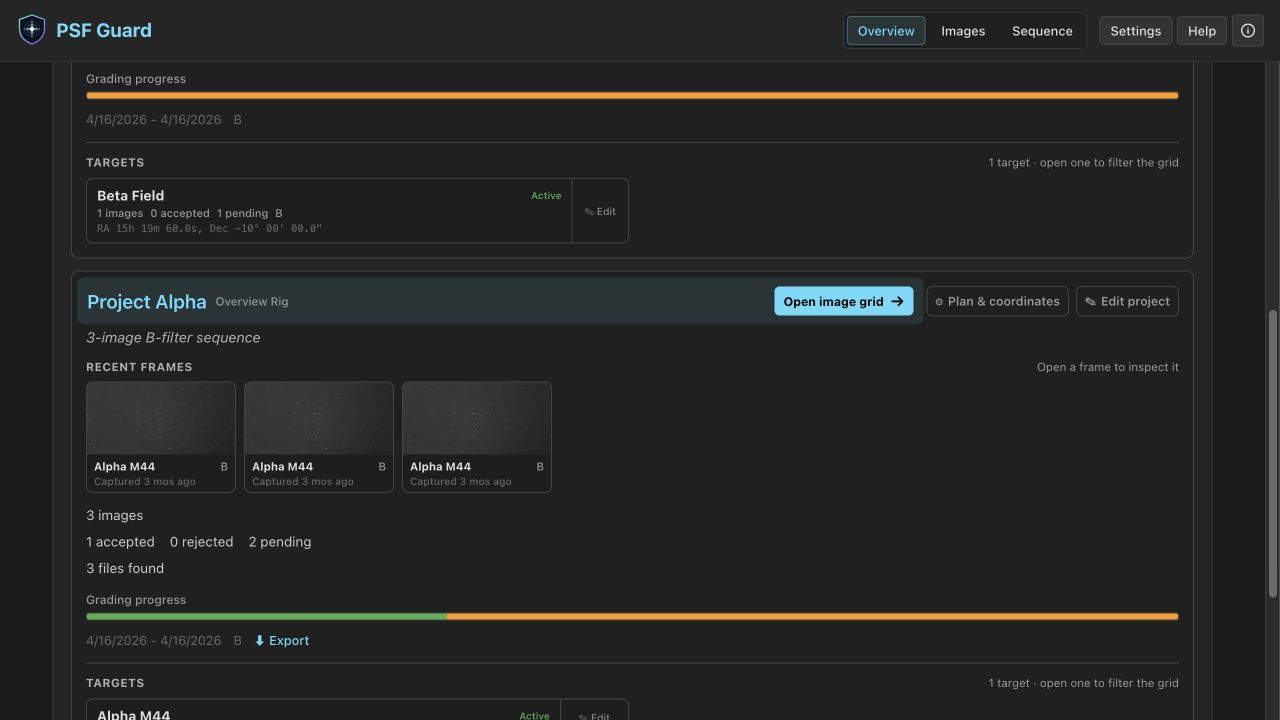
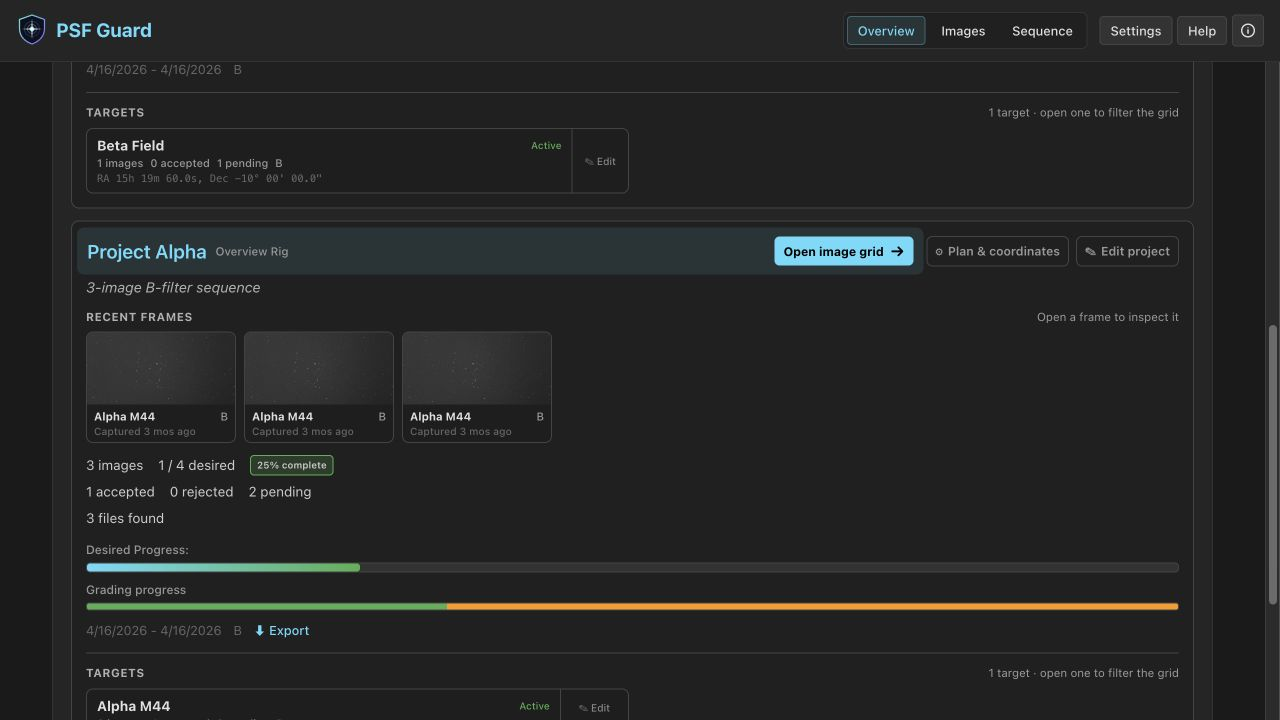
Show both project progress bars in Overview test

diff --git a/static/e2e/overview.spec.ts b/static/e2e/overview.spec.ts
@@ -22,6 +22,16 @@ test.beforeEach(async ({ request }) => {
 test('overview puts projects ahead of a compact catalog summary', async ({
   page,
 }) => {
+  await page.route(`**/api/db/${dbId}/projects/overview`, async (route) => {
+    const response = await route.fetch();
+    const body = await response.json();
+    const alpha = body.data.find(
+      (project: { id: number }) => project.id === 1
+    );
+    expect(alpha).toBeTruthy();
+    alpha.total_desired = 4;
+    await route.fulfill({ response, json: body });
+  });
   await page.goto('/');
 
   const summary = page.locator('.overview-summary');
@@ -48,6 +58,12 @@ test('overview puts projects ahead of a compact catalog summary', async ({
   await expect(
     alphaCard.getByRole('button', { name: 'Edit project' })
   ).toBeVisible();
+  await expect(alphaCard.getByText('1 / 4 desired')).toBeVisible();
+  const desiredProgress = alphaCard.locator('.project-desired-progress');
+  const desiredLabel = desiredProgress.getByText('Desired Progress:', {
+    exact: true,
+  });
+  const desiredBar = desiredProgress.locator('.desired-progress-bar');
   const gradingProgress = alphaCard.locator('.project-grading-progress');
   const gradingLabel = gradingProgress.getByText('Grading progress', {
     exact: true,
@@ -55,20 +71,39 @@ test('overview puts projects ahead of a compact catalog summary', async ({
   const gradingBar = gradingProgress.getByRole('img', {
     name: /Grading progress: \d+ accepted, \d+ rejected, \d+ pending/,
   });
+  await expect(desiredLabel).toBeVisible();
+  await expect(desiredBar).toBeVisible();
   await expect(gradingLabel).toBeVisible();
   await expect(gradingBar).toBeVisible();
-  const [statsBounds, labelBounds, barBounds] = await Promise.all([
+  const [
+    statsBounds,
+    desiredLabelBounds,
+    desiredBarBounds,
+    gradingLabelBounds,
+    gradingBarBounds,
+  ] = await Promise.all([
     alphaCard.locator('.project-stats').boundingBox(),
+    desiredLabel.boundingBox(),
+    desiredBar.boundingBox(),
     gradingLabel.boundingBox(),
     gradingBar.boundingBox(),
   ]);
   expect(statsBounds).not.toBeNull();
-  expect(labelBounds).not.toBeNull();
-  expect(barBounds).not.toBeNull();
-  expect(labelBounds!.y + labelBounds!.height).toBeLessThanOrEqual(barBounds!.y);
-  expect(barBounds!.height).toBeLessThanOrEqual(10);
-  expect(Math.abs(barBounds!.x - statsBounds!.x)).toBeLessThanOrEqual(1);
-  expect(Math.abs(barBounds!.width - statsBounds!.width)).toBeLessThanOrEqual(1);
+  expect(desiredLabelBounds).not.toBeNull();
+  expect(desiredBarBounds).not.toBeNull();
+  expect(gradingLabelBounds).not.toBeNull();
+  expect(gradingBarBounds).not.toBeNull();
+  expect(desiredLabelBounds!.y + desiredLabelBounds!.height)
+    .toBeLessThanOrEqual(desiredBarBounds!.y);
+  expect(desiredBarBounds!.y + desiredBarBounds!.height)
+    .toBeLessThanOrEqual(gradingLabelBounds!.y);
+  expect(gradingLabelBounds!.y + gradingLabelBounds!.height)
+    .toBeLessThanOrEqual(gradingBarBounds!.y);
+  expect(gradingBarBounds!.height).toBeLessThanOrEqual(10);
+  expect(Math.abs(desiredBarBounds!.x - statsBounds!.x)).toBeLessThanOrEqual(1);
+  expect(Math.abs(desiredBarBounds!.width - statsBounds!.width)).toBeLessThanOrEqual(1);
+  expect(Math.abs(gradingBarBounds!.x - statsBounds!.x)).toBeLessThanOrEqual(1);
+  expect(Math.abs(gradingBarBounds!.width - statsBounds!.width)).toBeLessThanOrEqual(1);
   const alphaTargets = alphaCard.locator('.target-compact-card');
   await expect(alphaTargets).toHaveCount(1);
   await expect(
